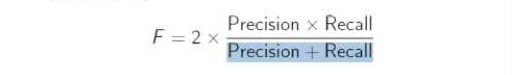
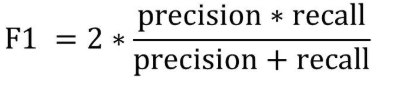
changed curve formula size

Changed region(s): [[0.1221, 0.0267, 0.9466, 0.9067], [0.0, 0.32, 0.0916, 0.5867], [0.1221, 0.4, 0.2137, 0.4533]]

diff --git a/index.html b/index.html
@@ -70,7 +70,7 @@ Matching a line to a potential lane involves multiple steps: perspective transfo
 <br><br>
 The radius of curvature is a measure of how much the road curves.  Since our approach uses a polynomial regression method, it is possible to calculate the radius of curvature once the polynomial is obtained.  We assumed the radius of curvature would be equivalent for both lanes since, usually, driving lanes are parallel to each other, thus we are only outputting one radius of curvature to describe the predicted lane.  The equation for the radius of curvature is as follows:
 <div style="text-align: center;">
-<img style="height: 200px;" alt="" src="curv_formula.png">
+<img style="height: 100px;" alt="" src="curv_formula.png">
 </div>
 <br>
 Where x1 and x0 are the first and zeroth degree coefficients respectively for the regressed polynomial.
@@ -125,7 +125,7 @@ In the machine learning approach there are not many parameters that need tweakin
 To evaluate our results in terms of accuracy, we chose F-score. To evaluate our results in terms of accuracy, we chose F-score. F-score is the harmonic mean of the precision and recall. Our F-score was calculated as such:
 <br><br>
 <div style="text-align: center;">
-<img style="height: 100px;" alt="" src="fscore.png">
+<img style="height: 75px;" alt="" src="fscore.png">
 </div>
 Where
 <div style="text-align: center;">
@@ -187,7 +187,10 @@ Performance overall, with regards to F-score, for darks roads is the worst of al
 High thresholds performed the best for optimal conditions. Low thresholding once again offers less information for the fit to happen. Once a perspective transform is done and features of the image such as the sky are removed, long clusters of brighter pixels (associated with lanes) are identified as lanes. This result is expected because there is good lighting and no shadows due to the car’s surroundings. Higher thresholds allow extraction of pertinent clusters.
 
 <h5>Curved Roads</h5>
-
+<div style="text-align: center;">
+<img style="height: 500px;" alt="" src="curved_classical.png">
+</div>
+<br>
 This category also performed well, along with Optimal Conditions. The visible lane outputs are almost identical for different thresholds, as the F-scores corroborate. As the analysis above indicates, lighting conditions are good in the test images. The reasons above for optimal conditions apply here as well.
 
 
